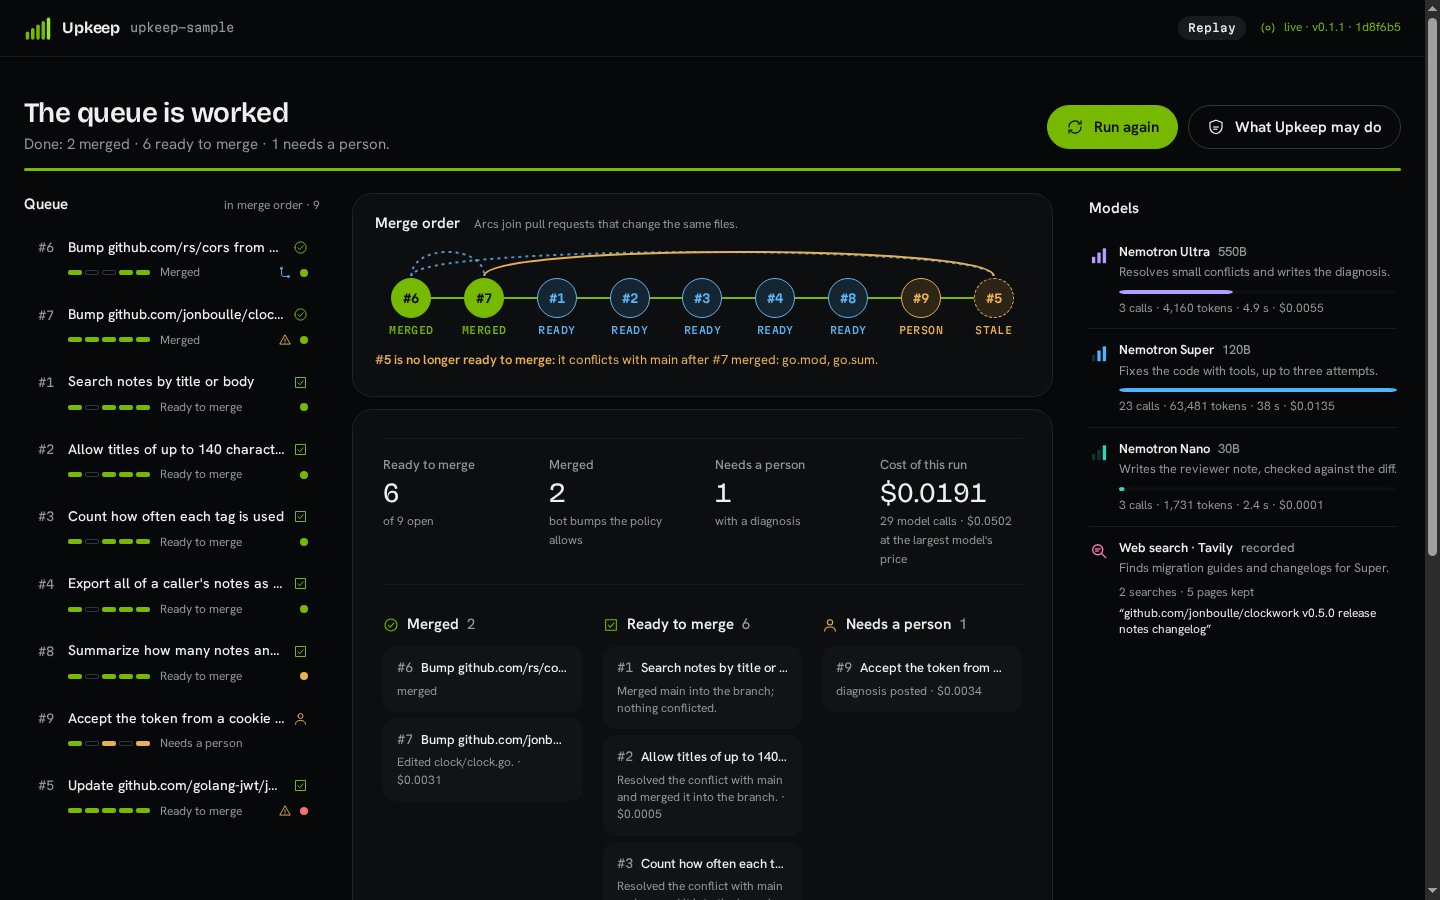
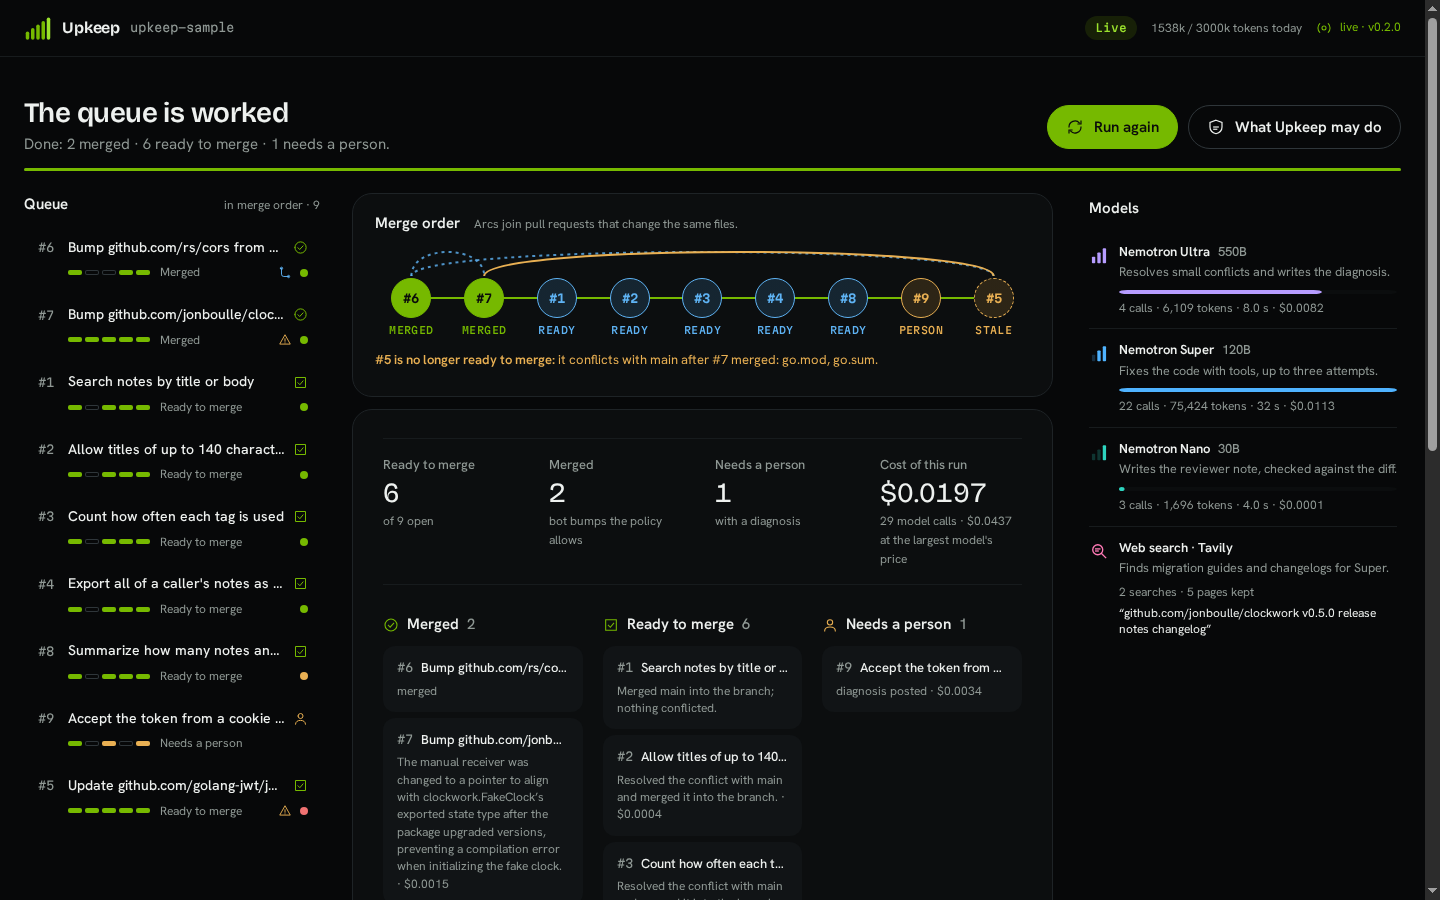
docs: point at v0.2.0 and retake the README screenshots from a live run

diff --git a/docs/action.md b/docs/action.md
@@ -52,7 +52,7 @@ jobs:
       group: upkeep
       cancel-in-progress: false
     steps:
-      - uses: aalvaropc/upkeep@v0.1.0
+      - uses: aalvaropc/upkeep@v0.2.0
         with:
           pull-requests: ${{ inputs.pull-requests }}
           dry-run: ${{ inputs.dry-run || false }}
@@ -72,7 +72,7 @@ jobs:
       group: upkeep
       cancel-in-progress: false
     steps:
-      - uses: aalvaropc/upkeep@v0.1.0
+      - uses: aalvaropc/upkeep@v0.2.0
         with:
           pull-requests: ${{ github.event.issue.number }}
           nebius-api-key: ${{ secrets.NEBIUS_API_KEY }}
@@ -90,12 +90,7 @@ How a run starts:
 
 Both jobs share one concurrency group, so two runs never push to the same branch at once.
 
-Pin the action to a release tag or a commit. `v0.1.0` (28 October 2026) is the first release. These later changes are on `main` and come with the next release:
-- the patch comment that carries merges and conflict resolutions;
-- forks;
-- the notices for skipped pull requests;
-- the forecast from the module's API;
-- the order-dependent test check. By default the binary is built at the same ref as the action: `go install github.com/aalvaropc/upkeep/cmd/upkeep@<ref>`, or a build of the action's own source when the ref is a branch with a slash in its name, which Go cannot install. Set the `version` input only to try another version.
+Pin the action to a release tag or a commit. The current release is [`v0.2.0`](https://github.com/aalvaropc/upkeep/releases/tag/v0.2.0) (29 October 2026). By default the binary is built at the same ref as the action: `go install github.com/aalvaropc/upkeep/cmd/upkeep@<ref>`, or a build of the action's own source when the ref is a branch with a slash in its name, which Go cannot install. Set the `version` input only to try another version.
 
 ## Inputs
 

diff --git a/README.md b/README.md
@@ -15,7 +15,7 @@ It is one Go binary with its dashboard built in, and it ships as a GitHub Action
 
 **Live demo:** https://3-146-121-173.sslip.io (the overview). The dashboard is at [`/demo`](https://3-146-121-173.sslip.io/demo).
 
-![The dashboard after a run: the queue on the left, the merge order drawn as a graph above the results in the centre, the models and the web search on the right](docs/images/dashboard-done.png)
+![The dashboard after a live run against the Nemotron models: the queue on the left, the merge order drawn as a graph above the results in the centre, the models and the web search on the right](docs/images/dashboard-done.png)
 
 ## How it works
 
@@ -39,7 +39,7 @@ Nothing is pushed until a checklist outside the model passes: build, vet and tes
 
 While a run goes, the centre of the dashboard follows the agent at work, one pull request at a time: its five stages, every Nemotron turn and tool call, the Tavily search and the verifier.
 
-![The live stage following the jwt major upgrade: its stages, the other workers in parallel, and Super's attempt turn by turn with its edits](docs/images/dashboard-trace.png)
+![The live stage following the jwt major upgrade during a live run: its stages, the other workers in parallel, and Super's attempt turn by turn with its edits](docs/images/dashboard-trace.png)
 
 ## The demo scenario
 
@@ -92,7 +92,7 @@ On a real repository (live by default):
 GITHUB_TOKEN=... ./bin/upkeep run -repo owner/name
 ```
 
-From GitHub Actions: `uses: aalvaropc/upkeep@v0.1.0` ([`docs/action.md`](docs/action.md)).
+From GitHub Actions: `uses: aalvaropc/upkeep@v0.2.0` ([`docs/action.md`](docs/action.md)).
 
 | Command | What it does |
 |---|---|
